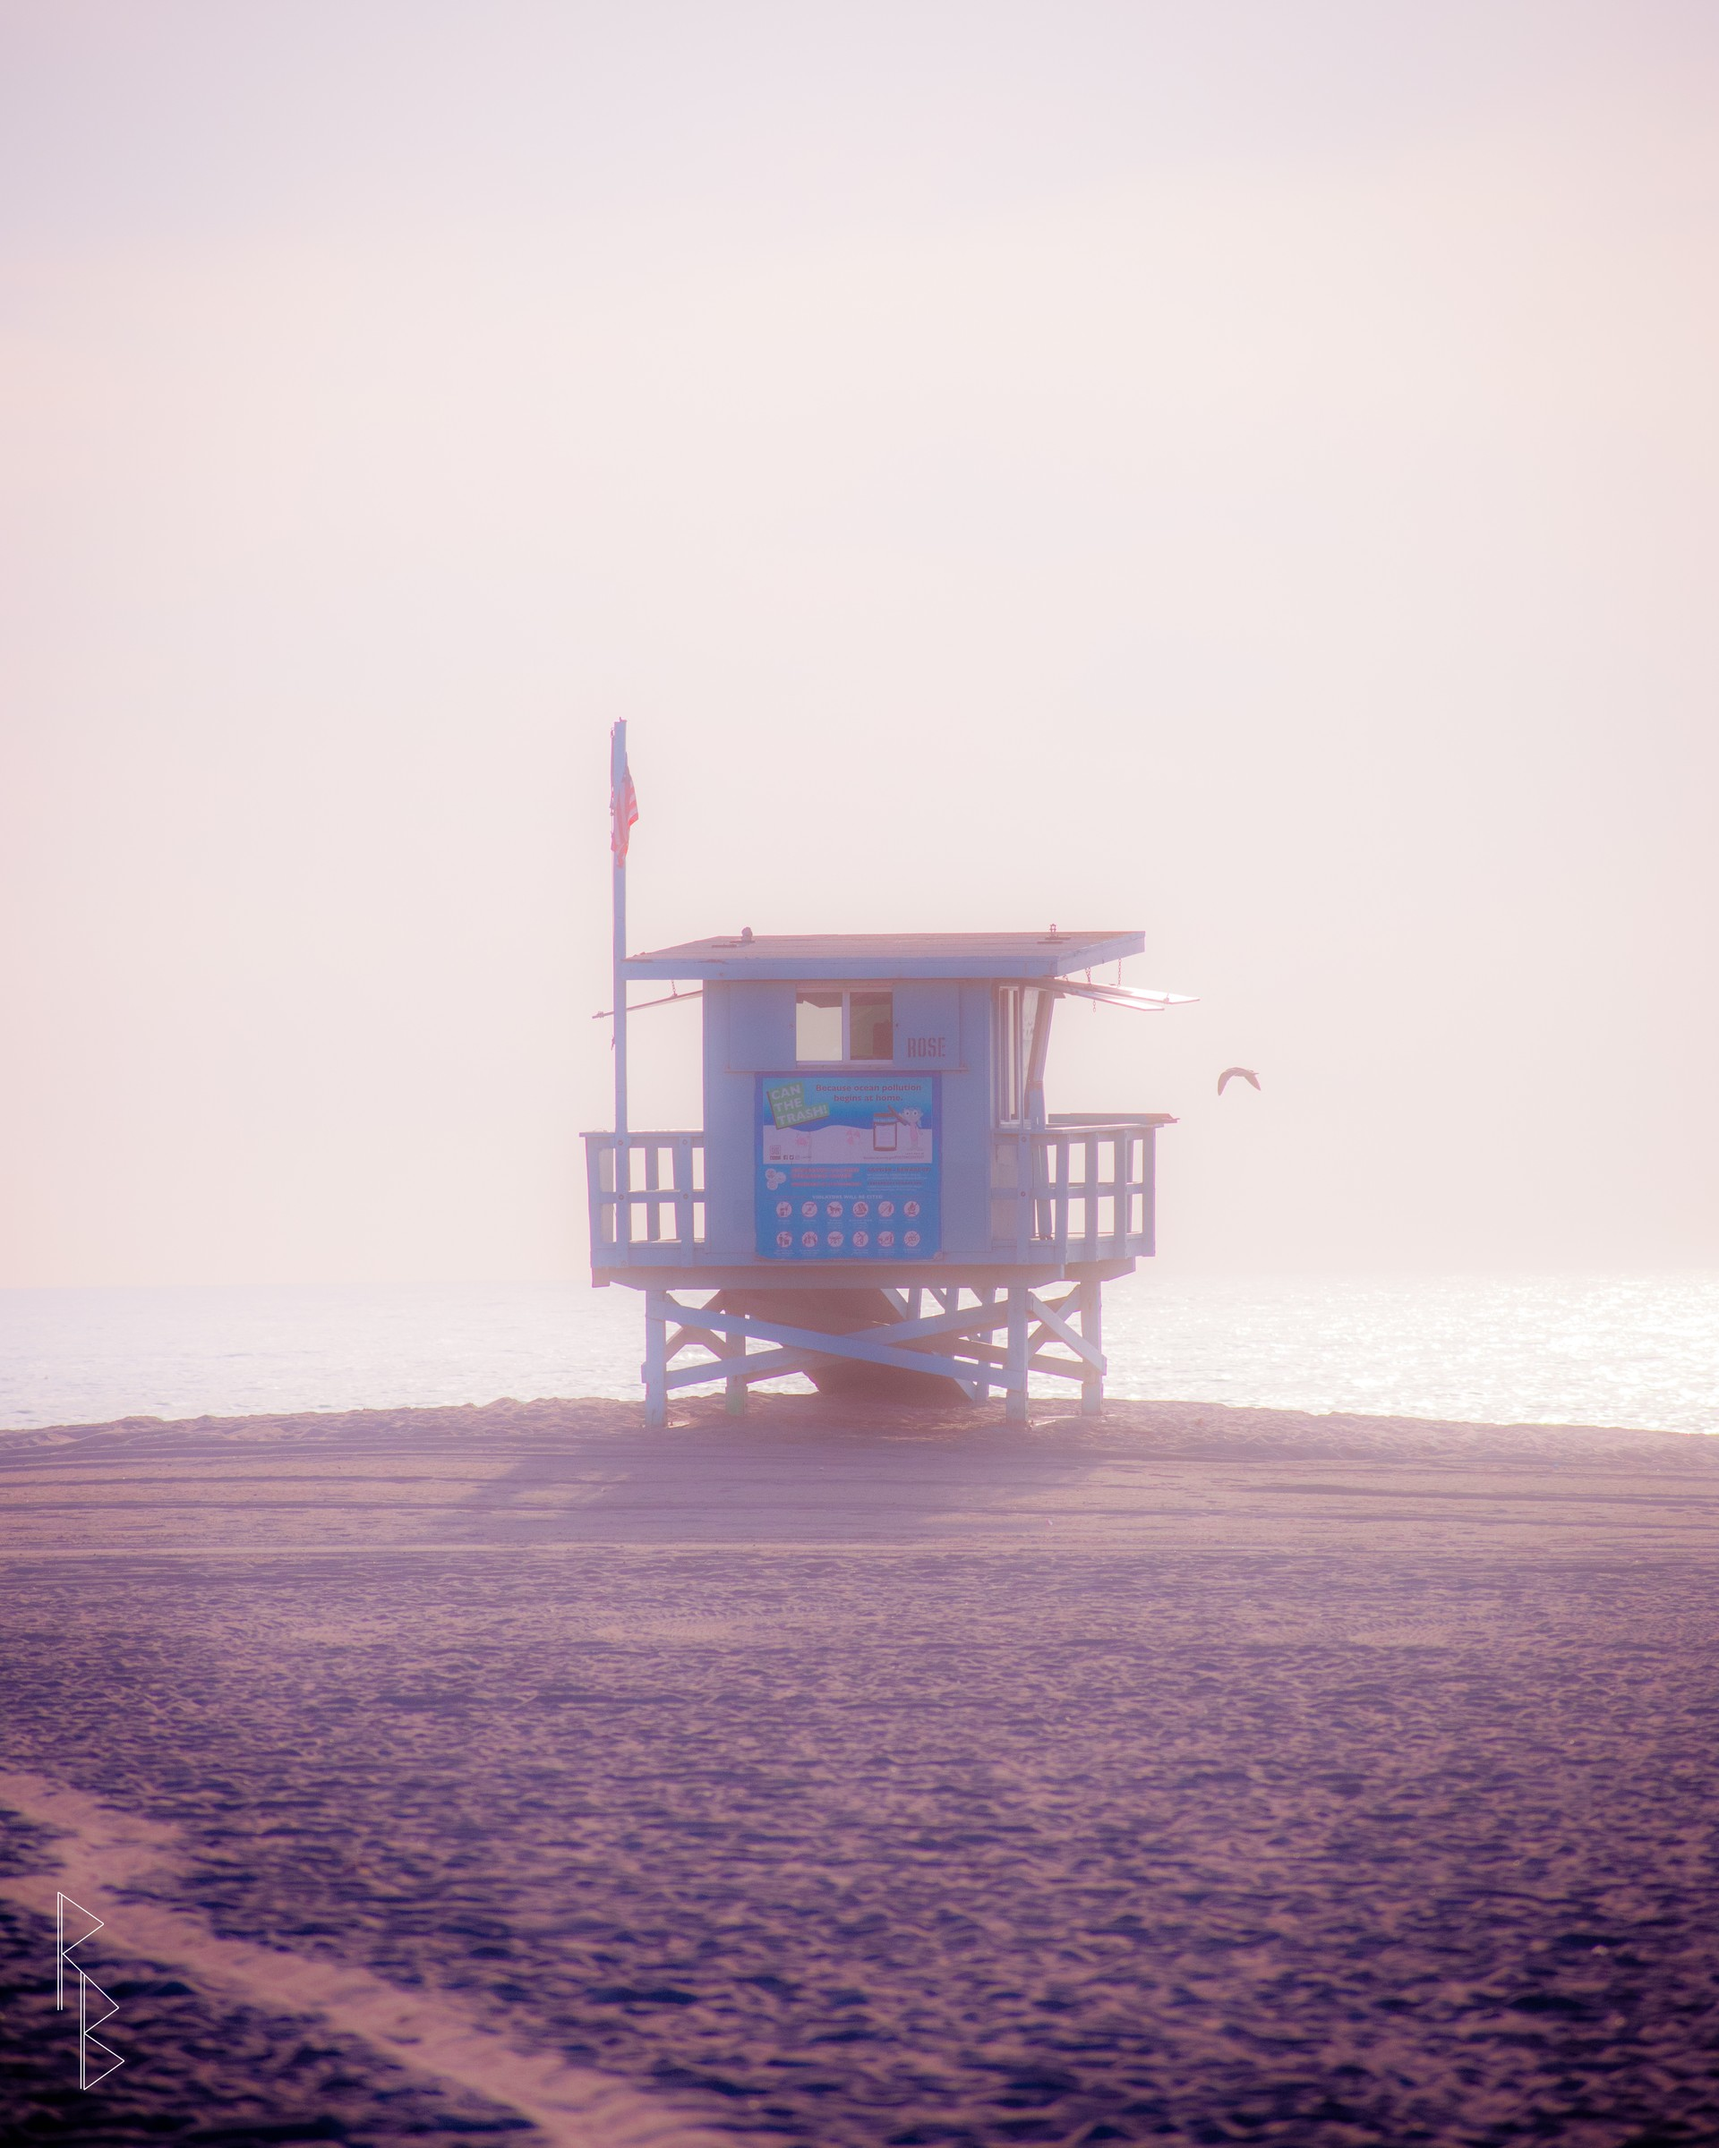
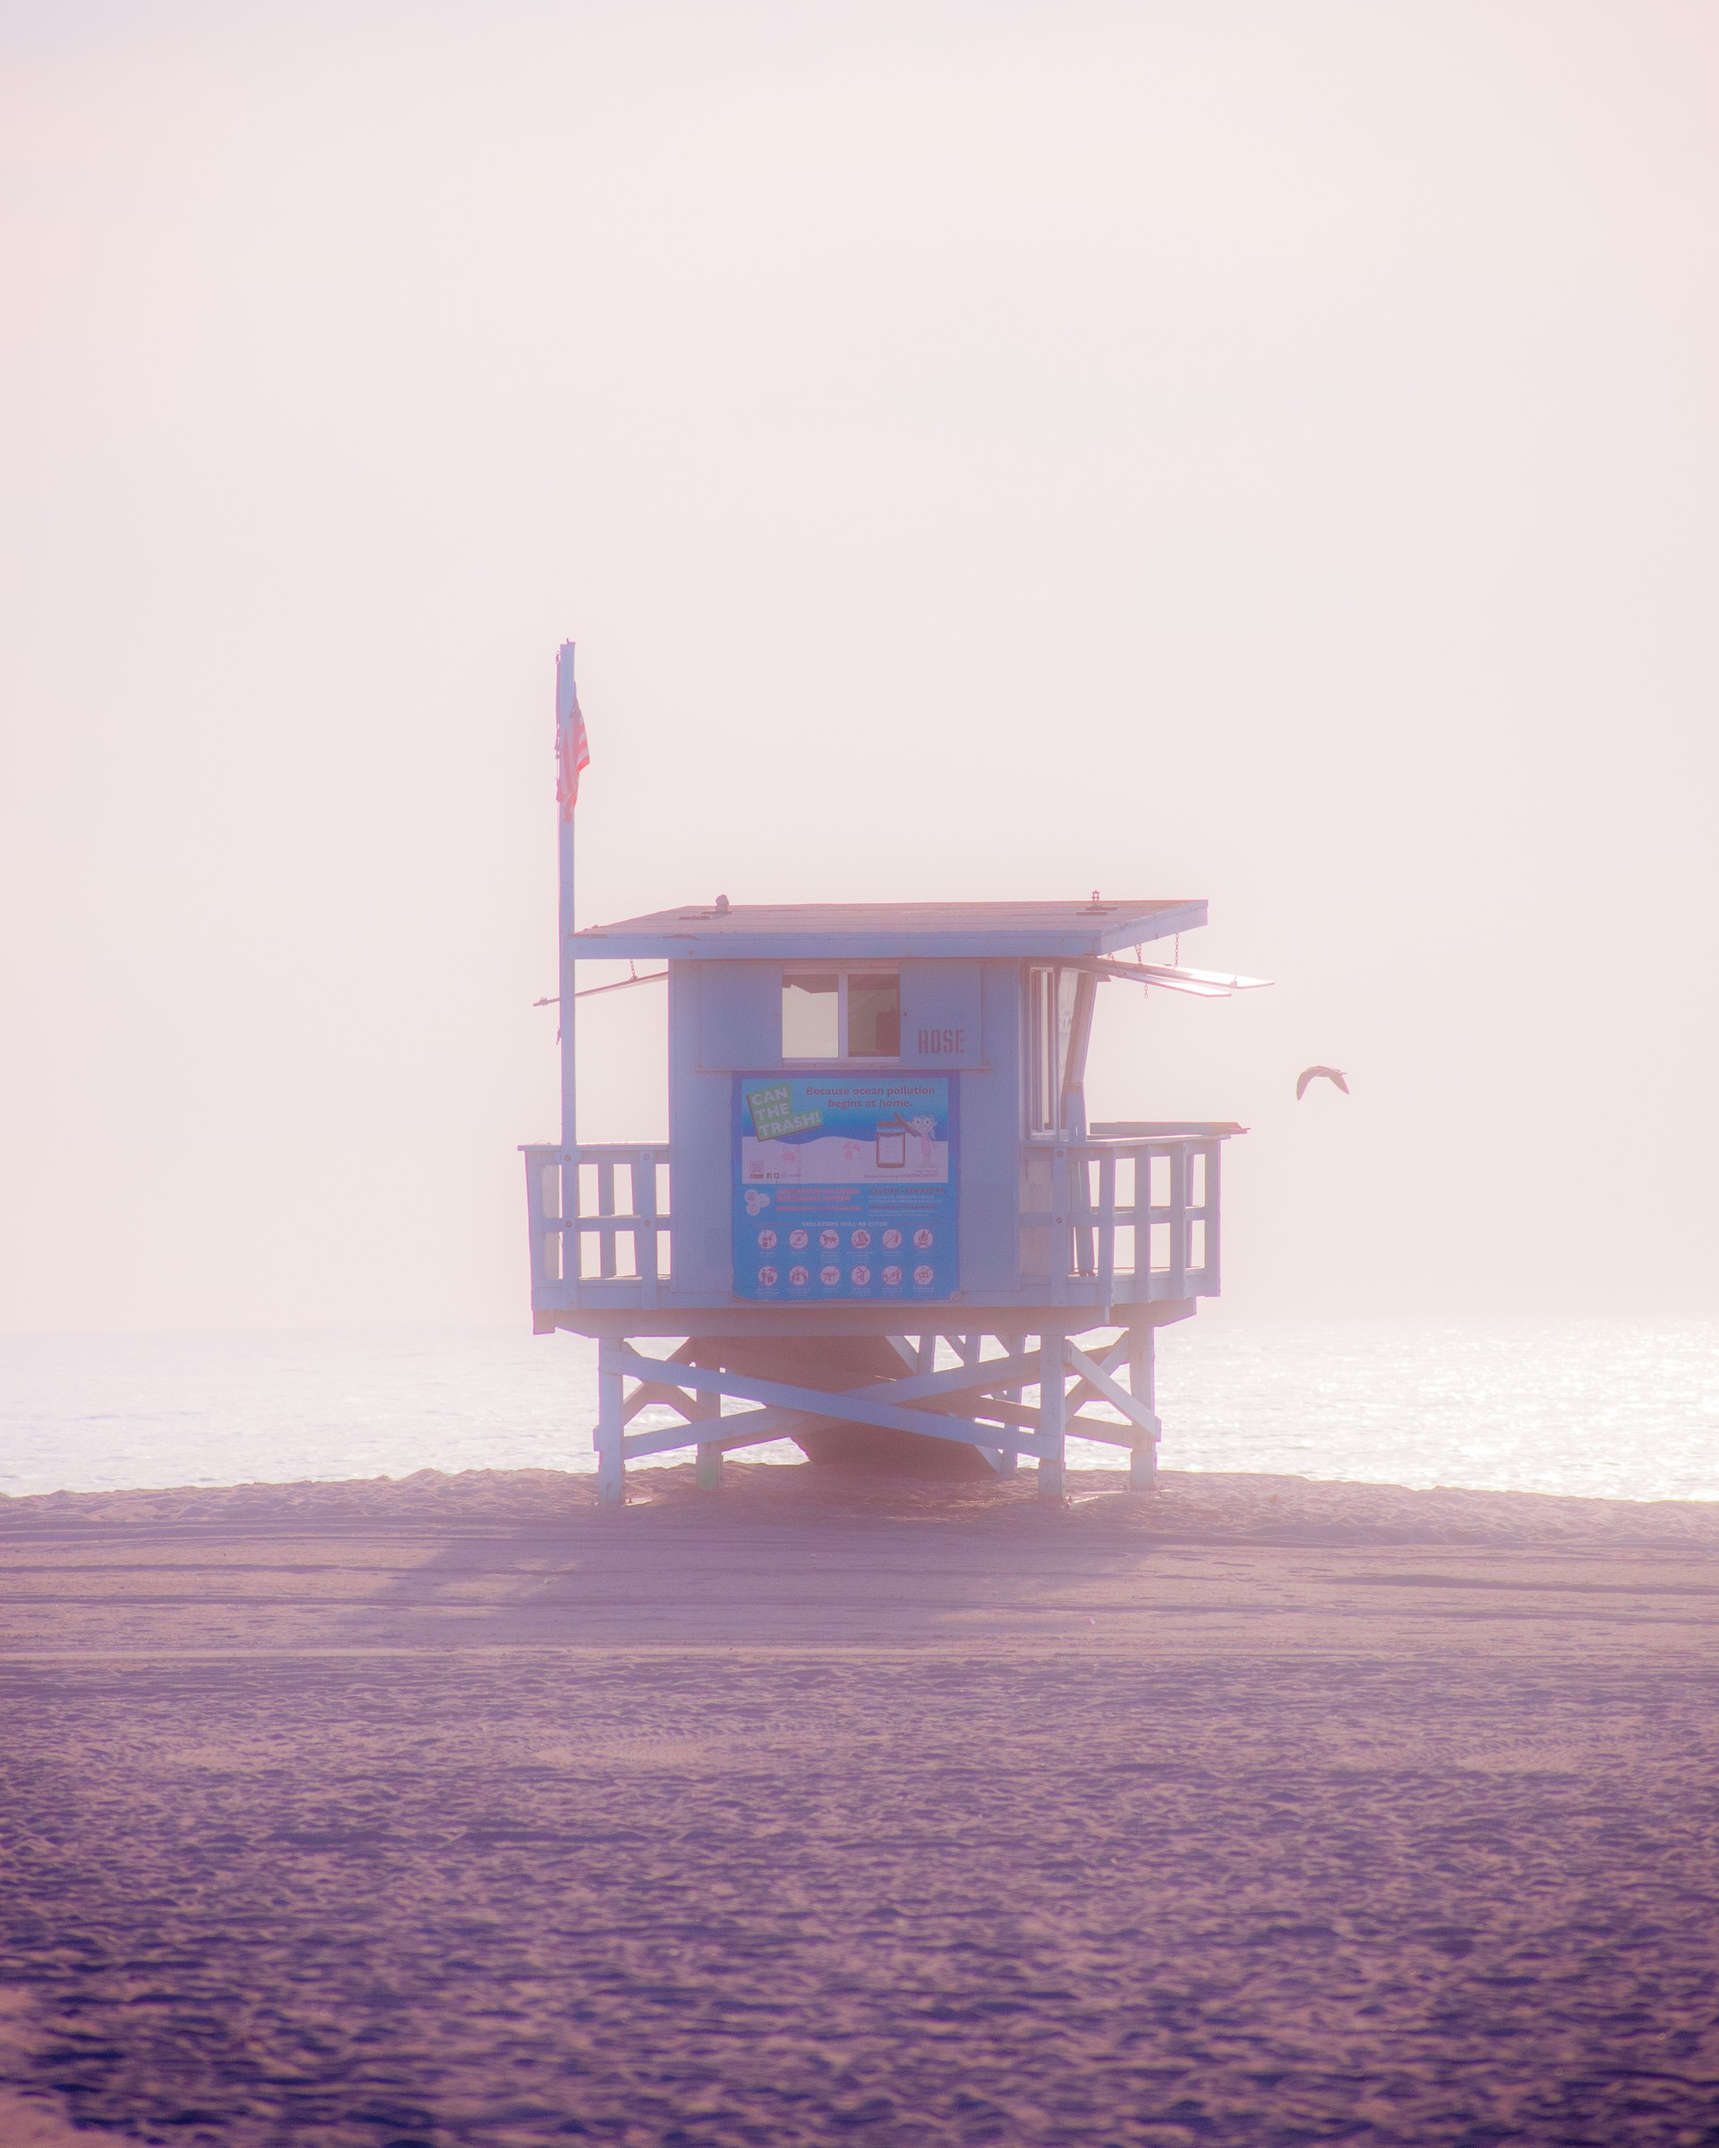
Centered watermark-free photo crops; serif interests; degree inline with school

Changed region(s): [[0.0, 0.2812, 1.0, 1.0], [0.75, 0.5, 0.7812, 0.5312]]

diff --git a/app/components/Education.tsx b/app/components/Education.tsx
@@ -18,8 +18,11 @@ export default function Education() {
 
         {/* Content column: the title lines up with the org and project names above */}
         <div>
-          <h3 className="font-display text-2xl leading-tight text-fg-heading sm:text-3xl">{education.school}</h3>
-          <p className="mt-2 text-lg text-fg">{education.degree}</p>
+          {/* Same pattern as a Work row: serif name, then the role (here the degree) in sans */}
+          <h3 className="font-display text-2xl leading-tight text-fg-heading sm:text-3xl">
+            {education.school}
+            <span className="font-sans text-base text-fg-muted"> · <span className="whitespace-nowrap">{education.degree}</span></span>
+          </h3>
           <p className="mt-2 font-mono text-[11px] uppercase leading-6 tracking-[0.14em] text-fg-subtle">
             {education.focus.join(" · ")}
             {/* GPA joins the line on wider screens; on phones it gets its own line instead of a dangling "·" */}

diff --git a/app/content/photography.ts b/app/content/photography.ts
@@ -1,5 +1,5 @@
-// Photography shown on the home page. Images live in assets/photography (resized from the originals to
-// 2400px on the long edge) and are statically imported, so Next knows their size and makes blur placeholders.
+// Photography shown on the home page. Images live in assets/photography: centered 4:5 crops of the originals,
+// zoomed just enough to drop the watermark, at 1920×2400 and are statically imported, so Next knows their size and makes blur placeholders.
 // A full gallery comes back once higher-resolution exports are ready.
 
 import type { StaticImageData } from "next/image";

diff --git a/app/components/About.tsx b/app/components/About.tsx
@@ -27,7 +27,7 @@ export default function About() {
           <div>
             <dt className="font-mono text-[11px] uppercase tracking-[0.14em] text-fg-subtle">Interests</dt>
             <dd className="mt-4">
-              <ul className="space-y-2 text-lg leading-snug text-fg">
+              <ul className="space-y-2 font-display text-2xl leading-tight text-fg-heading">
                 {interests.map((i) => (
                   <li key={i}>{i}</li>
                 ))}

diff --git a/app/components/Photography.tsx b/app/components/Photography.tsx
@@ -20,8 +20,7 @@ export default function Photography() {
                 alt={p.alt}
                 placeholder="blur"
                 sizes="(max-width: 768px) 33vw, 260px"
-                // Zoomed from the right edge just enough to crop out the bottom-left watermark.
-                className="aspect-[4/5] w-full origin-right scale-110 object-cover"
+                className="aspect-[4/5] w-full object-cover"
               />
             </li>
           ))}
